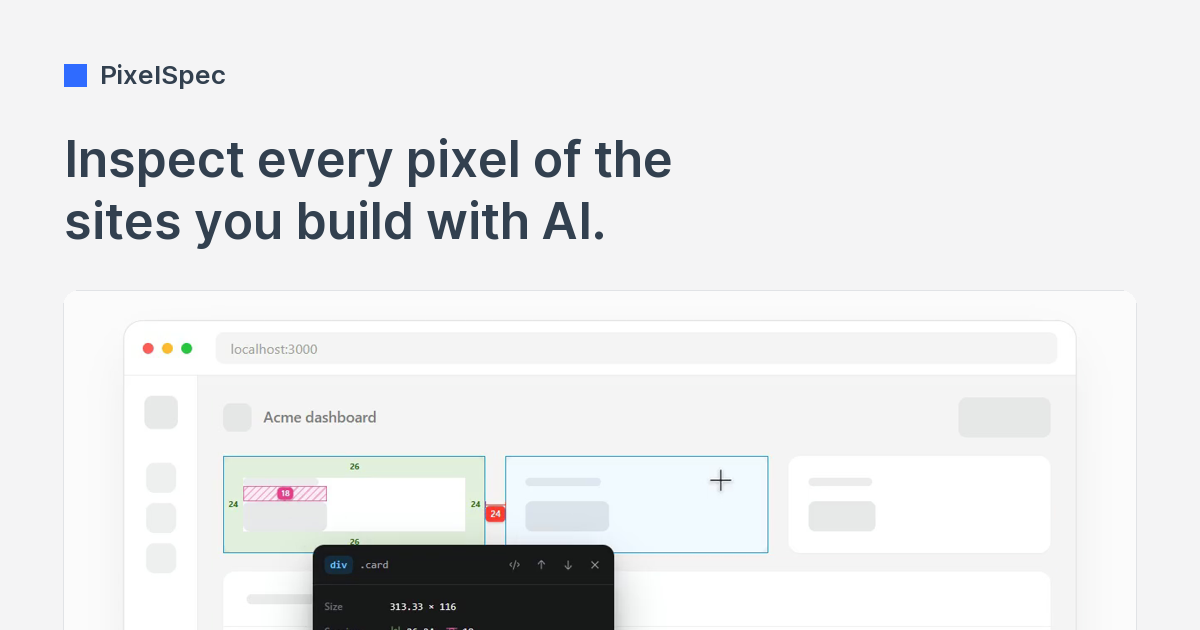
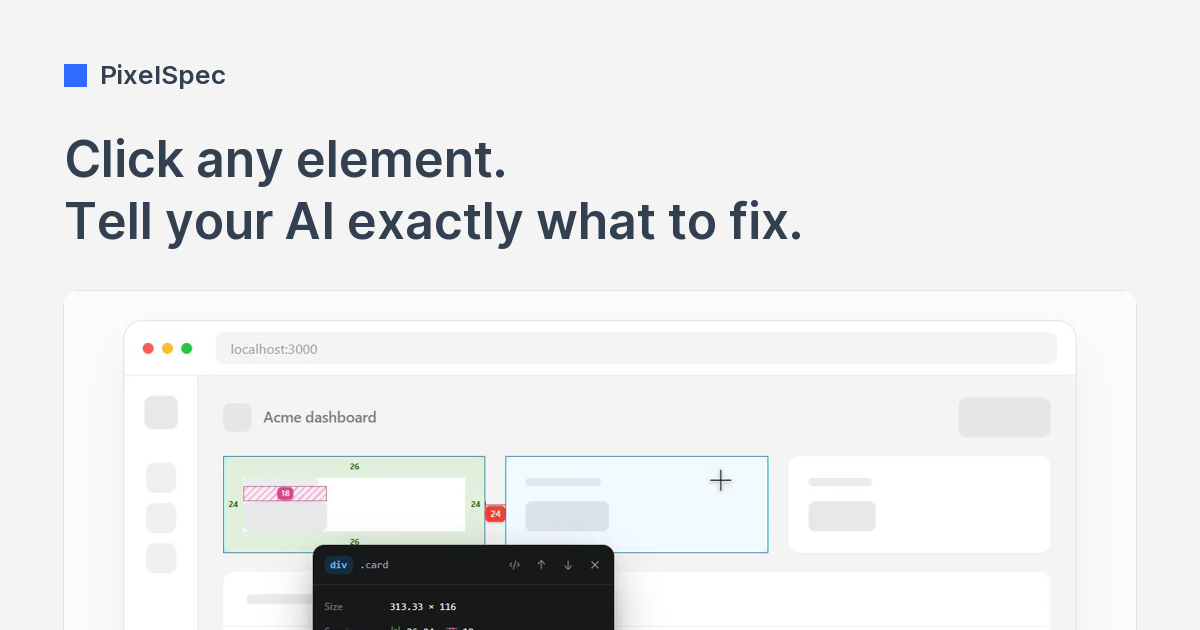
Site: clearer hero headline

Changed region(s): [[0.0308, 0.2111, 0.6783, 0.3921]]

diff --git a/site/index.html b/site/index.html
@@ -9,15 +9,15 @@
   <link rel="canonical" href="https://www.pixelspec.dev/" />
   <meta property="og:site_name" content="PixelSpec" />
   <meta property="og:type" content="website" />
-  <meta property="og:title" content="PixelSpec: inspect every pixel of the sites you build with AI" />
+  <meta property="og:title" content="PixelSpec: click any element, tell your AI exactly what to fix" />
   <meta property="og:description" content="Measure spacing, type, color and contrast on any live website, then send design feedback your AI coding agent can act on." />
   <meta property="og:url" content="https://www.pixelspec.dev/" />
   <meta property="og:image" content="https://www.pixelspec.dev/assets/og.png" />
   <meta property="og:image:width" content="1200" />
   <meta property="og:image:height" content="630" />
-  <meta property="og:image:alt" content="PixelSpec: inspect every pixel of the sites you build with AI" />
+  <meta property="og:image:alt" content="PixelSpec: click any element, tell your AI exactly what to fix" />
   <meta name="twitter:card" content="summary_large_image" />
-  <meta name="twitter:title" content="PixelSpec: inspect every pixel of the sites you build with AI" />
+  <meta name="twitter:title" content="PixelSpec: click any element, tell your AI exactly what to fix" />
   <meta name="twitter:description" content="Measure spacing, type, color and contrast on any live website, then send design feedback your AI coding agent can act on." />
   <meta name="twitter:image" content="https://www.pixelspec.dev/assets/og.png" />
   <script type="application/ld+json">
@@ -55,7 +55,7 @@
   </nav>
 
   <main>
-    <h1>Inspect every pixel of the sites you build with AI.</h1>
+    <h1>Click any element. Tell your AI exactly what to fix.</h1>
 
     <p class="lead">PixelSpec is a free, open-source design inspector for any live website. Measure padding, margins, gaps and distances, check type, color and contrast, then click any element to send precise feedback to Claude Code, Cursor or your AI agent. A sharper alternative to Agentation.</p>
 
